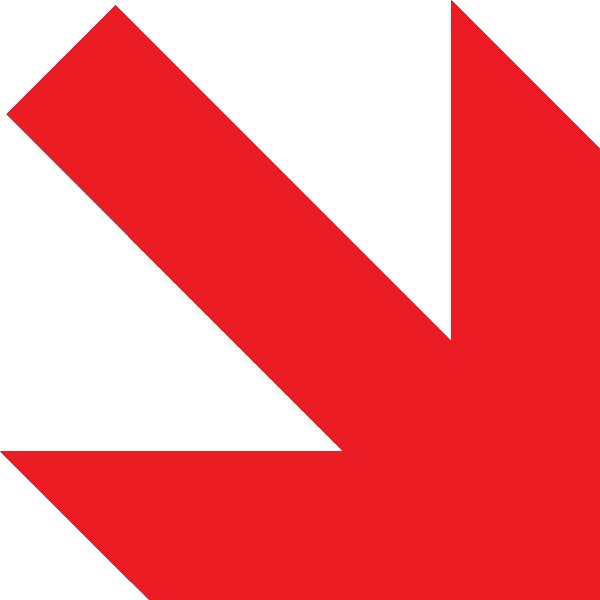
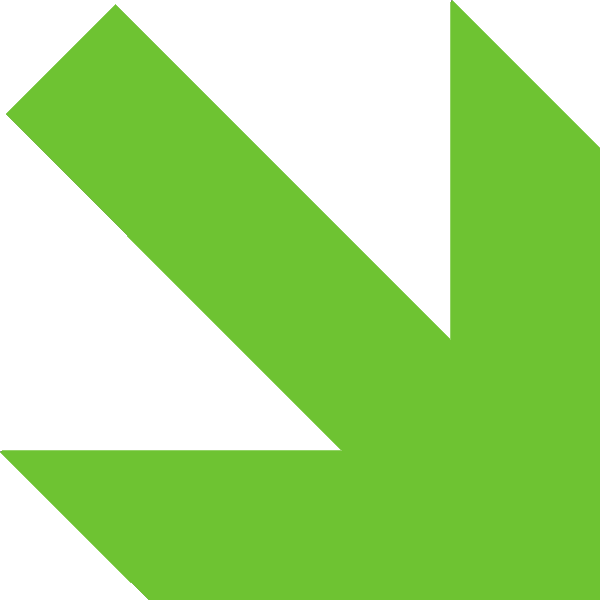
bla

diff --git a/app.vue b/app.vue
@@ -1,28 +1,25 @@
 <template>
   <div style="max-width:600px; margin-left:auto; margin-right: auto;">
     <header>
-      <p>dhill.dev</p>
-      <p>- - - -</p>
-      <p><svg xmlns="http://www.w3.org/2000/svg" fill="none" viewBox="0 0 24 24" stroke-width="1.5" stroke="currentColor" width="14" height="14">
+      <p>dhill.dev <svg xmlns="http://www.w3.org/2000/svg" fill="none" viewBox="0 0 24 24" stroke-width="1.5" stroke="currentColor" width="18" height="18">
   <path stroke-linecap="round" stroke-linejoin="round" d="m21 7.5-2.25-1.313M21 7.5v2.25m0-2.25-2.25 1.313M3 7.5l2.25-1.313M3 7.5l2.25 1.313M3 7.5v2.25m9 3 2.25-1.313M12 12.75l-2.25-1.313M12 12.75V15m0 6.75 2.25-1.313M12 21.75V19.5m0 2.25-2.25-1.313m0-16.875L12 2.25l2.25 1.313M21 14.25v2.25l-2.25 1.313m-13.5 0L3 16.5v-2.25" />
 </svg> Intuitive Web Solutions</p>
+      <p>- - - -</p>
       <p><svg xmlns="http://www.w3.org/2000/svg" fill="none" viewBox="0 0 24 24" stroke-width="1.5" stroke="currentColor"
-          width="14" height="14">
+          width="18" height="18">
           <path stroke-linecap="round" stroke-linejoin="round"
             d="M7.5 8.25h9m-9 3H12m-9.75 1.51c0 1.6 1.123 2.994 2.707 3.227 1.129.166 2.27.293 3.423.379.35.026.67.21.865.501L12 21l2.755-4.133a1.14 1.14 0 0 1 .865-.501 48.172 48.172 0 0 0 3.423-.379c1.584-.233 2.707-1.626 2.707-3.228V6.741c0-1.602-1.123-2.995-2.707-3.228A48.394 48.394 0 0 0 12 3c-2.392 0-4.744.175-7.043.513C3.373 3.746 2.25 5.14 2.25 6.741v6.018Z" />
         </svg>
-        Consulting and Conception <br><svg xmlns="http://www.w3.org/2000/svg" fill="none" viewBox="0 0 24 24"
-          strokeWidth={1.5} stroke="currentColor" width="14" height="14">
+        Consulting and Conception</p><p><svg xmlns="http://www.w3.org/2000/svg" fill="none" viewBox="0 0 24 24"
+          strokeWidth={1.5} stroke="currentColor" width="18" height="18">
           <path strokeLinecap="round" strokeLinejoin="round"
             d="M15.042 21.672 13.684 16.6m0 0-2.51 2.225.569-9.47 5.227 7.917-3.286-.672Zm-7.518-.267A8.25 8.25 0 1 1 20.25 10.5M8.288 14.212A5.25 5.25 0 1 1 17.25 10.5" />
         </svg>
-        Logo and UI/UX Design <br><svg xmlns="http://www.w3.org/2000/svg" fill="none" viewBox="0 0 24 24"
-          stroke-width="1.5" stroke="currentColor" width="14" height="14">
+        Logo and UI/UX Design</p><p><svg xmlns="http://www.w3.org/2000/svg" fill="none" viewBox="0 0 24 24"
+          stroke-width="1.5" stroke="currentColor" width="18" height="18">
           <path stroke-linecap="round" stroke-linejoin="round"
             d="M17.25 6.75 22.5 12l-5.25 5.25m-10.5 0L1.5 12l5.25-5.25m7.5-3-4.5 16.5" />
-        </svg>
-
-        Software Development</p>
+        </svg> Software Development</p>
 
       <div class="stripes" style="width:300px; height: 100px;">
 
@@ -36,7 +33,7 @@
     </main>
     <footer>
       <div style="text-align: right;">
-      <svg xmlns="http://www.w3.org/2000/svg" viewBox="0 0 20 20" fill="currentColor" width="14" height="14">
+      <svg xmlns="http://www.w3.org/2000/svg" viewBox="0 0 20 20" fill="currentColor" width="18" height="18">
   <path fill-rule="evenodd" d="M7.793 2.232a.75.75 0 0 1-.025 1.06L3.622 7.25h10.003a5.375 5.375 0 0 1 0 10.75H10.75a.75.75 0 0 1 0-1.5h2.875a3.875 3.875 0 0 0 0-7.75H3.622l4.146 3.957a.75.75 0 0 1-1.036 1.085l-5.5-5.25a.75.75 0 0 1 0-1.085l5.5-5.25a.75.75 0 0 1 1.06.025Z" clip-rule="evenodd" />
 </svg> <NuxtLink to="/">Back</NuxtLink>
 </div>
@@ -47,14 +44,14 @@
         <img src="/danielhill.jpg" width="92px" height="92px" alt="" title="" style="border-radius: 9999px;" />
       </div>
       
-      <p><svg xmlns="http://www.w3.org/2000/svg" fill="none" viewBox="0 0 24 24" stroke-width="1.5" stroke="currentColor" width="14" height="14">
+      <p><svg xmlns="http://www.w3.org/2000/svg" fill="none" viewBox="0 0 24 24" stroke-width="1.5" stroke="currentColor" width="18" height="18">
   <path stroke-linecap="round" stroke-linejoin="round" d="M9 3.75H6.912a2.25 2.25 0 0 0-2.15 1.588L2.35 13.177a2.25 2.25 0 0 0-.1.661V18a2.25 2.25 0 0 0 2.25 2.25h15A2.25 2.25 0 0 0 21.75 18v-4.162c0-.224-.034-.447-.1-.661L19.24 5.338a2.25 2.25 0 0 0-2.15-1.588H15M2.25 13.5h3.86a2.25 2.25 0 0 1 2.012 1.244l.256.512a2.25 2.25 0 0 0 2.013 1.244h3.218a2.25 2.25 0 0 0 2.013-1.244l.256-.512a2.25 2.25 0 0 1 2.013-1.244h3.859M12 3v8.25m0 0-3-3m3 3 3-3" />
 </svg> If you are interested or just have questions, send me an email to <a href="mailto:mail@dhill.dev"
           title="Write An Email">mail@dhill.dev</a></p>
 
       <p>- - - -</p>
       <p>Copyright © 2024 - dhill.dev</p>
-      <p><svg xmlns="http://www.w3.org/2000/svg" fill="none" viewBox="0 0 24 24" stroke-width="1.5" stroke="currentColor" width="14" height="14">
+      <p><svg xmlns="http://www.w3.org/2000/svg" fill="none" viewBox="0 0 24 24" stroke-width="1.5" stroke="currentColor" width="18" height="18">
   <path stroke-linecap="round" stroke-linejoin="round" d="M11.42 15.17 17.25 21A2.652 2.652 0 0 0 21 17.25l-5.877-5.877M11.42 15.17l2.496-3.03c.317-.384.74-.626 1.208-.766M11.42 15.17l-4.655 5.653a2.548 2.548 0 1 1-3.586-3.586l6.837-5.63m5.108-.233c.55-.164 1.163-.188 1.743-.14a4.5 4.5 0 0 0 4.486-6.336l-3.276 3.277a3.004 3.004 0 0 1-2.25-2.25l3.276-3.276a4.5 4.5 0 0 0-6.336 4.486c.091 1.076-.071 2.264-.904 2.95l-.102.085m-1.745 1.437L5.909 7.5H4.5L2.25 3.75l1.5-1.5L7.5 4.5v1.409l4.26 4.26m-1.745 1.437 1.745-1.437m6.615 8.206L15.75 15.75M4.867 19.125h.008v.008h-.008v-.008Z" />
 </svg> Made with <NuxtLink to="https://nuxt.com" target="_blank">Nuxt</NuxtLink>
       </p>
@@ -66,12 +63,12 @@
 <style>
 body {
   font-family:  monospace, 'Courier New', Courier;
-  background-color: floralwhite;
-  color: red;
+  background-color: #EBFFE6;
+  color: #6EC332;
 }
 
 a {
-  color: red;
+  color: #6EC332;
 }
 
 a:hover {
@@ -94,7 +91,7 @@ a:hover {
   margin-bottom: 25px;
   --b: 1px;
   /* thickness of the border */
-  --c: red;
+  --c: #6EC332;
   /* color of the border */
   --w: 20px;
   /* width of border */
@@ -112,8 +109,8 @@ a:hover {
     repeating-linear-gradient(-45deg,
       transparent,
       transparent 0.5rem,
-      red 0.5rem,
-      red 1rem);
+      #6EC332 0.5rem,
+      #6EC332 1rem);
   background-size: 400% 400%;
   animation: barberpole 20s linear infinite;
 }
